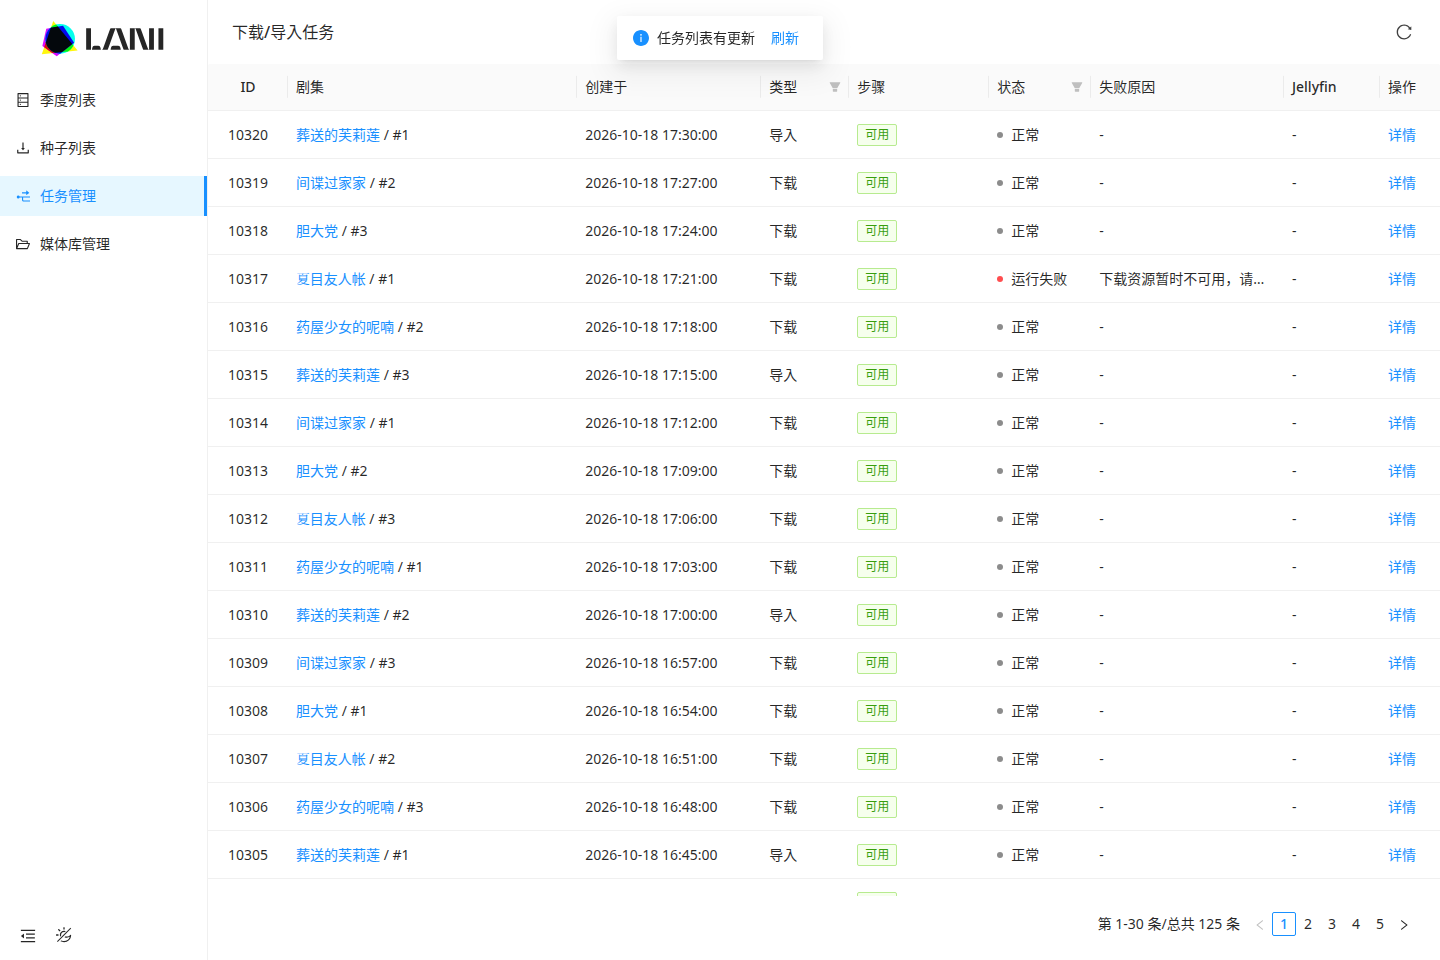
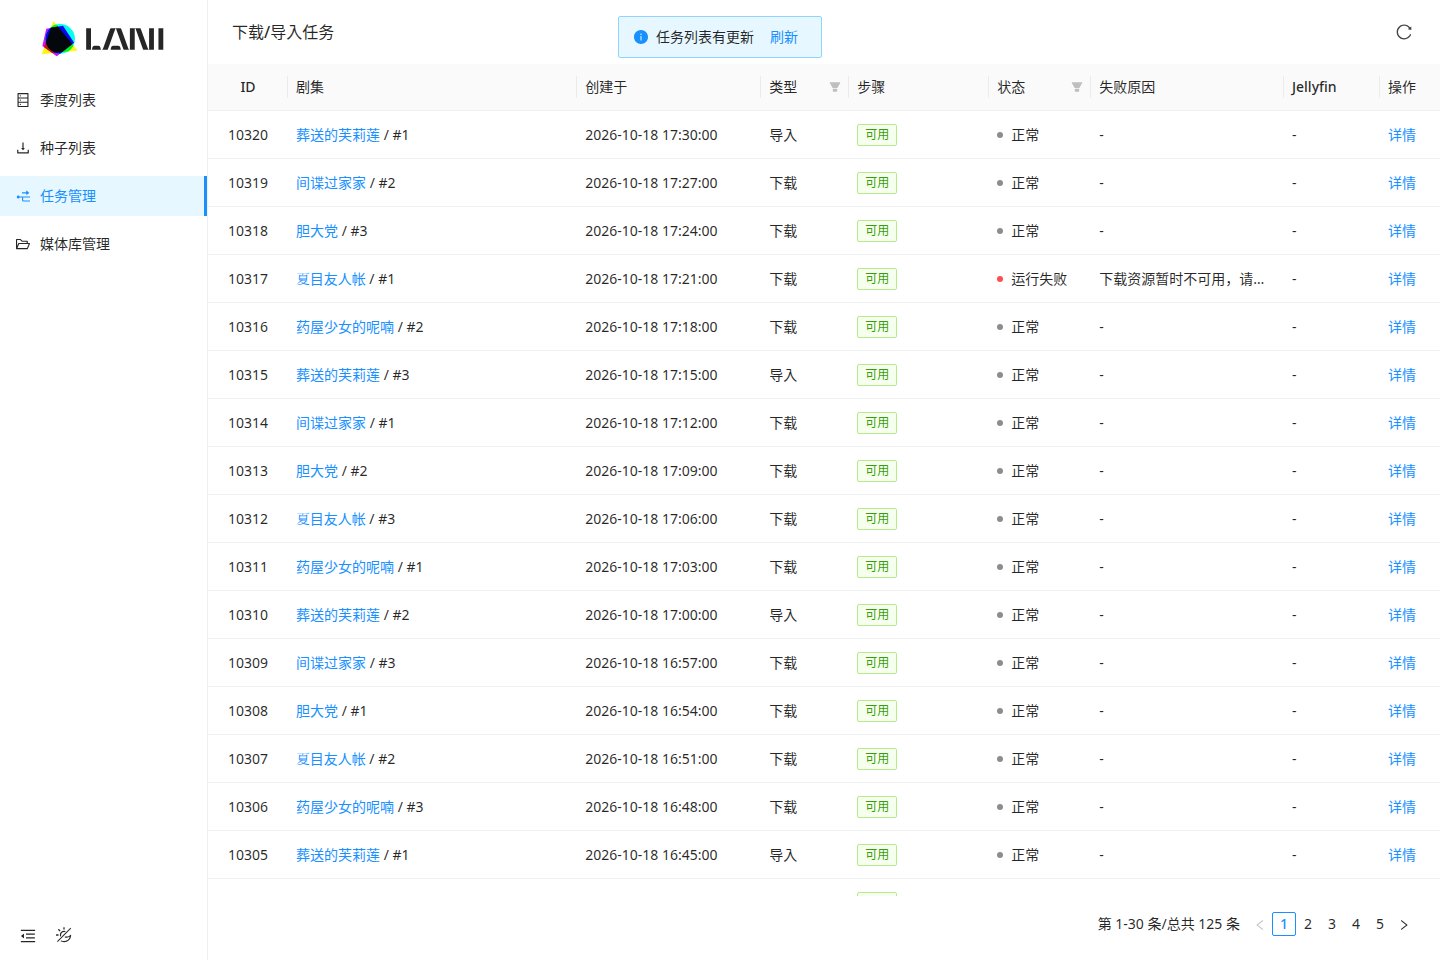
refactor(admin): 直接渲染固定的任务列表更新提示

Changed region(s): [[0.4062, 0.0, 0.5938, 0.0625]]

diff --git a/apps/admin/src/pages/jobs/index.tsx b/apps/admin/src/pages/jobs/index.tsx
@@ -9,7 +9,6 @@ import {
 } from '@/constants/task-status';
 import { taskStateFilter } from './filters';
 import styles from './index.module.less';
-import TaskListUpdateToast from './TaskListUpdateToast';
 import { useTaskStates } from '@/utils/useTaskStates';
 import { useApolloPoll } from '@/utils/useApolloPoll';
 import { parseWorkflow, currentStep } from '@lani/workflow';
@@ -34,7 +33,7 @@ import {
 import { extractNode } from '@/utils/graphql';
 import { ActionType, ProColumns } from '@ant-design/pro-table';
 import { ApolloClient, useApolloClient } from '@apollo/client';
-import { Typography } from 'antd';
+import { Alert, Button, Typography } from 'antd';
 import { useMemo, useRef, useState } from 'react';
 import { Link } from 'umi';
 import { handleError } from '@/utils/error';
@@ -284,8 +283,7 @@ export function applyTaskStates(
 
 export default function JobsPage() {
   const client = useApolloClient();
-  const [taskDetailsDialog, , openTaskDetails, taskDetailsVisible] =
-    useTaskDetailsDialog();
+  const [taskDetailsDialog, , openTaskDetails] = useTaskDetailsDialog();
   const tableRef = useRef<HTMLDivElement>(null);
   const tableSize = useSize(tableRef);
   const columns = useColumns({
@@ -334,11 +332,23 @@ export default function JobsPage() {
   return (
     <div ref={tableRef} style={{ minWidth: 0 }}>
       <PageTitle title="下载/导入任务" />
-      <TaskListUpdateToast
-        visible={changed}
-        modalOpen={taskDetailsVisible}
-        onRefresh={() => void actionRef.current?.reload()}
-      />
+      {changed && (
+        <Alert
+          className={styles.updateToast}
+          type="info"
+          showIcon
+          message="任务列表有更新"
+          action={
+            <Button
+              type="link"
+              size="small"
+              onClick={() => void actionRef.current?.reload()}
+            >
+              刷新
+            </Button>
+          }
+        />
+      )}
       <MainTable<ListTasksFieldsFragment>
         columns={columns}
         rowKey="id"

diff --git a/apps/admin/src/pages/jobs/index.module.less b/apps/admin/src/pages/jobs/index.module.less
@@ -13,11 +13,12 @@
   max-width: 100%;
 }
 
-// 列表提示始终低于 Modal 默认遮罩（1000），弹窗开关时不触发退场。
+// 固定定位不占表格高度，层级始终低于 Modal 默认遮罩（1000）。
 .updateToast {
+  position: fixed;
+  top: 16px;
+  left: 50%;
   z-index: 999;
-
-  &.closing :global(.ant-message-notice-content) {
-    pointer-events: none;
-  }
+  max-width: calc(100vw - 32px);
+  transform: translateX(-50%);
 }

diff --git a/apps/admin/src/utils/useDialog.tsx b/apps/admin/src/utils/useDialog.tsx
@@ -124,11 +124,10 @@ export function createUseDialog<Input, Output>(
     ReactNode,
     (input: Input) => Promise<Output>,
     (input: Input) => Promise<DialogOpenNoThrowResult<Output>>,
-    boolean,
   ] => {
     const { open, openNoThrow, ...props } = useDialog<Input, Output>();
     const dialog = <Component {...props} />;
-    return [dialog, open, openNoThrow, props.visible];
+    return [dialog, open, openNoThrow];
   };
 }
 
